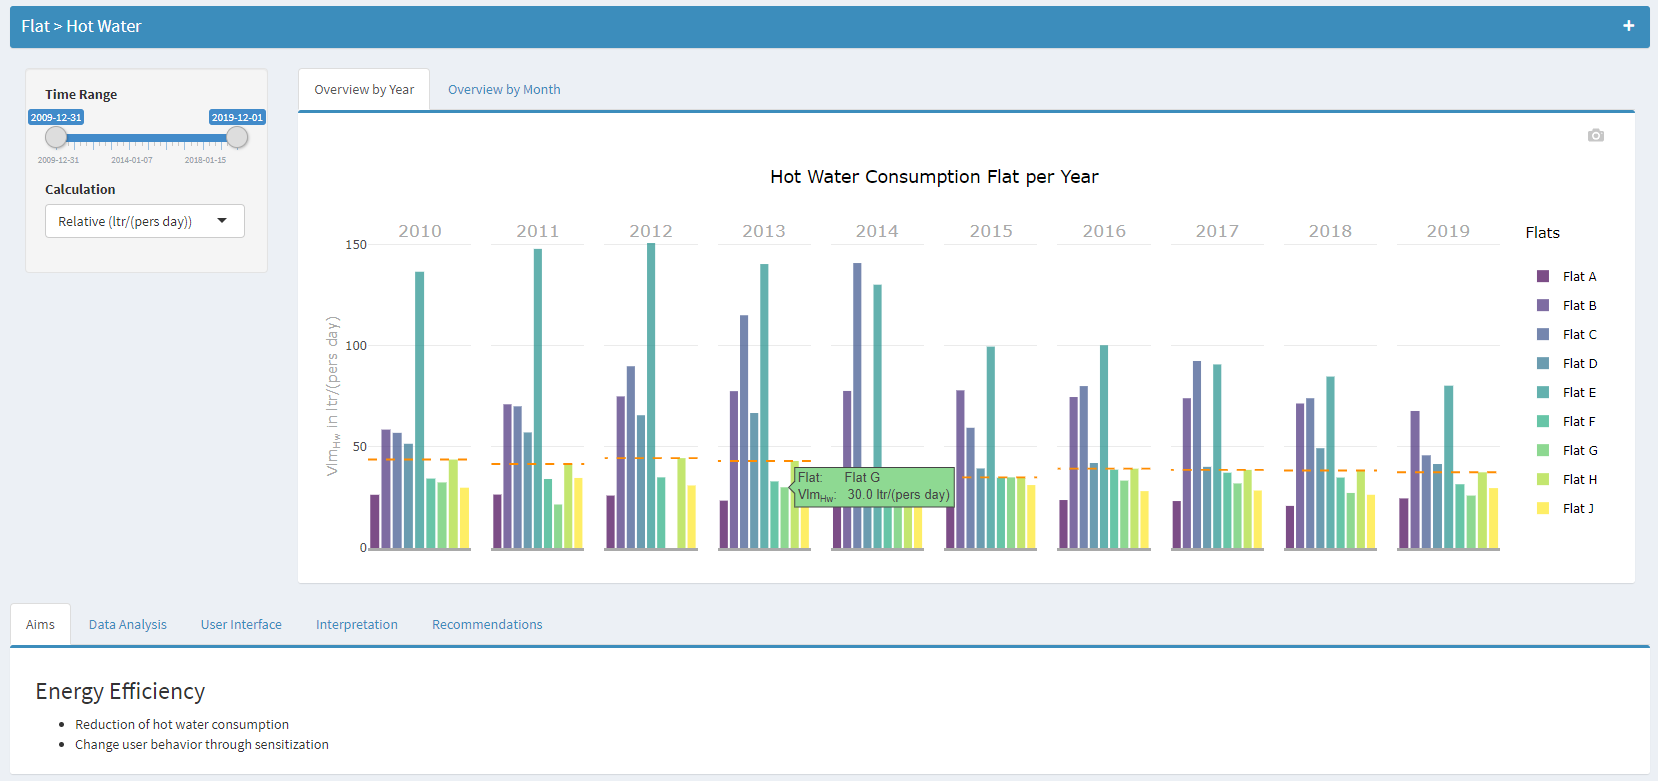
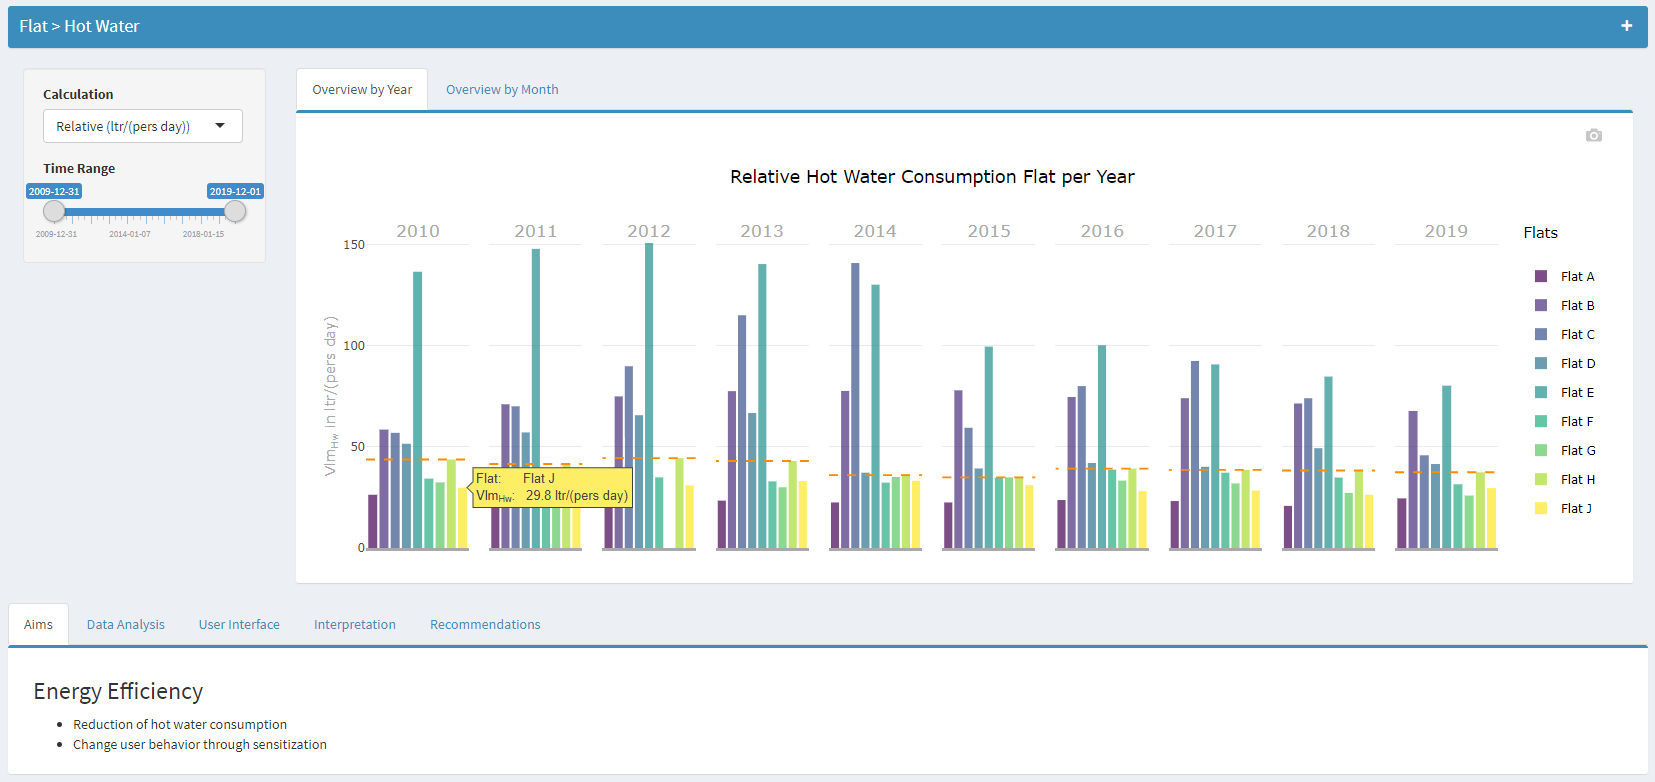
update doc-text

diff --git a/docs/docs/modules/flatHeating/userinterface.md b/docs/docs/modules/flatHeating/userinterface.md
@@ -6,10 +6,44 @@ parent: Flat > Heating
 grand_parent: Modules
 ---
 
-### Title
-#### Subtitle
-- content tbd <a href="#referencename">[1]</a>
+### Visualization(s)
+#### Relative Heating Energy Building per Year
+<br><br>
+<img src="https://raw.githubusercontent.com/hslu-ige-laes/lcm/master/docs/assets/images/flatHeating_05.PNG" style="border:1px solid lightgrey"/>
+<br>
 
-<hr>
-### References
-<a id="referencename">[1]</a> referende <br>
+#### Relative Heating Energy Flats per Year<br><br>
+<img src="https://raw.githubusercontent.com/hslu-ige-laes/lcm/master/docs/assets/images/flatHeating_06.PNG" style="border:1px solid lightgrey"/>
+<br>
+
+#### Relative Heating Energy Building per Month
+<br><br>
+<img src="https://raw.githubusercontent.com/hslu-ige-laes/lcm/master/docs/assets/images/flatHeating_01.PNG" style="border:1px solid lightgrey"/>
+<br>
+
+#### Relative Heating Energy Flats per Month
+<br><br>
+<img src="https://raw.githubusercontent.com/hslu-ige-laes/lcm/master/docs/assets/images/flatHeating_02.PNG" style="border:1px solid lightgrey"/>
+<br>
+
+<br><br>
+
+### Settings
+#### Basic
+
+<img src="https://raw.githubusercontent.com/hslu-ige-laes/lcm/master/docs/assets/images/flatHeating_03.PNG" style="border:1px solid lightgrey" width="180px"/>
+<br><br>
+
+**Calculation**
+- Selection of unit, either kWh or kWh/m<sup>2</sup>
+- the size of a flat comes from `Settings > Building Hierarchy`
+
+**Level**
+- Changes the type of plot. "Building" stackes the values to point out the total, "Flats" shows individual values for comparison.
+
+**Time Range**
+- The date left is automatically the oldest timestamp and on the right side the newest.
+- Narrow the time range to make comparisons.
+
+#### Extended
+no extended settings

diff --git a/docs/docs/modules/flatHotWater/userinterface.md b/docs/docs/modules/flatHotWater/userinterface.md
@@ -6,10 +6,34 @@ parent: Flat > Hot Water
 grand_parent: Modules
 ---
 
-### Title
-#### Subtitle
-- content tbd <a href="#referencename">[1]</a>
+### Visualization(s)
+#### Hot Water Consumption Building per Year
+<br><br>
+<img src="https://raw.githubusercontent.com/hslu-ige-laes/lcm/master/docs/assets/images/flatHotWater_01.PNG" style="border:1px solid lightgrey"/>
+<br>
+<img src="https://raw.githubusercontent.com/hslu-ige-laes/lcm/master/docs/assets/images/flatHotWater_02.PNG" style="border:1px solid lightgrey"/>
+<br>
 
-<hr>
-### References
-<a id="referencename">[1]</a> referende <br>
+#### Hot Water Consumption Building per Month
+<br><br>
+<img src="https://raw.githubusercontent.com/hslu-ige-laes/lcm/master/docs/assets/images/flatHotWater_05.PNG" style="border:1px solid lightgrey"/>
+<br>
+<img src="https://raw.githubusercontent.com/hslu-ige-laes/lcm/master/docs/assets/images/flatHotWater_06.PNG" style="border:1px solid lightgrey"/>
+<br>
+
+### Settings
+#### Basic
+
+<img src="https://raw.githubusercontent.com/hslu-ige-laes/lcm/master/docs/assets/images/flatHotWater_03.PNG" style="border:1px solid lightgrey" width="180px"/>
+<br><br>
+
+**Calculation**
+- Selection of unit, either ltr or ltr/(pers day)
+- the amount of people per flat comes from `Settings > Building Hierarchy`
+
+**Time Range**
+- The date left is automatically the oldest timestamp and on the right side the newest.
+- Narrow the time range to make comparisons.
+
+#### Extended
+no extended settings

diff --git a/docs/docs/modules/flatHotWater/dataanalysis.md b/docs/docs/modules/flatHotWater/dataanalysis.md
@@ -6,10 +6,12 @@ parent: Flat > Hot Water
 grand_parent: Modules
 ---
 
-### Title
-#### Subtitle
-- content tbd <a href="#referencename">[1]</a>
+### Data Aquisition
+- monthly consumption in m<sup>3</sup> per flat
 
-<hr>
-### References
-<a id="referencename">[1]</a> referende <br>
+### Calculations
+- calculate specific monthly consumption
+  - in ltr/person per flat
+  - in ltr/(person and day) per flat
+  - average over all configured flats
+- the size of a flat comes from `Settings > Building Hierarchy`

diff --git a/docs/docs/modules/flatHeating/dataanalysis.md b/docs/docs/modules/flatHeating/dataanalysis.md
@@ -6,10 +6,9 @@ parent: Flat > Heating
 grand_parent: Modules
 ---
 
-### Title
-#### Subtitle
-- content tbd <a href="#referencename">[1]</a>
+### Data Aquisition
+- monthly consumption in kWh per flat
 
-<hr>
-### References
-<a id="referencename">[1]</a> referende <br>
+### Calculations
+- calculate specific monthly consumption in kWh/m<sup>2</sup> per flat
+- calculate average consumption over all configured flats

diff --git a/docs/docs/modules/centralHeatingSignature/dataanalysis.md b/docs/docs/modules/centralHeatingSignature/dataanalysis.md
@@ -6,10 +6,8 @@ parent: Central > Heating Signature
 grand_parent: Modules
 ---
 
-### Title
-#### Subtitle
-- content tbd <a href="#referencename">[1]</a>
+### Data Aquisition
+- tbd
 
-<hr>
-### References
-<a id="referencename">[1]</a> referende <br>
+### Calculations
+- tbd

diff --git a/docs/docs/modules/centralHeatingCurve/dataanalysis.md b/docs/docs/modules/centralHeatingCurve/dataanalysis.md
@@ -6,10 +6,8 @@ parent: Central > Heating Curve
 grand_parent: Modules
 ---
 
-### Title
-#### Subtitle
-- content tbd <a href="#referencename">[1]</a>
+### Data Aquisition
+- tbd
 
-<hr>
-### References
-<a id="referencename">[1]</a> referende <br>
+### Calculations
+- tbd

diff --git a/docs/docs/modules/flatVentilation/dataanalysis.md b/docs/docs/modules/flatVentilation/dataanalysis.md
@@ -6,10 +6,8 @@ parent: Flat > Ventilation
 grand_parent: Modules
 ---
 
-### Title
-#### Subtitle
-- content tbd <a href="#referencename">[1]</a>
+### Data Aquisition
+- tbd
 
-<hr>
-### References
-<a id="referencename">[1]</a> referende <br>
+### Calculations
+- tbd
